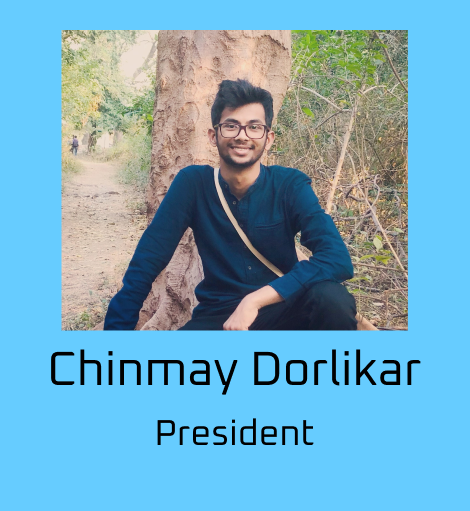
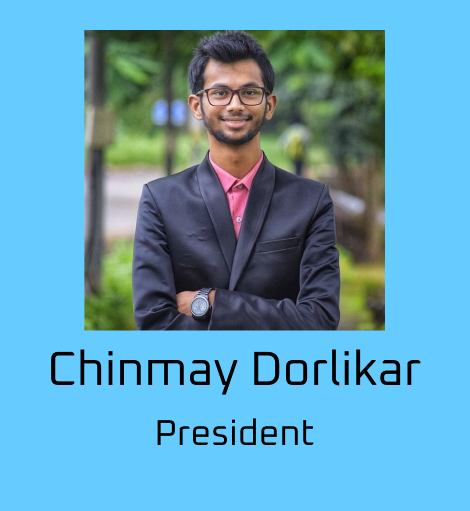
Photos of members updated and added

diff --git a/committee.html b/committee.html
@@ -95,8 +95,13 @@
             <td height="450px" width="333px" align="center" ><img height="300px" src="./ImagesCom/15.png"></td>
         </tr>
         <tr>
-            <td height="450px" width="333px" align="center" ></td>
             <td height="450px" width="333px" align="center" ><img height="300px" src="./ImagesCom/16.png"></td>
+            <td height="450px" width="333px" align="center" ><img height="300px" src="./ImagesCom/17.png"></td>
+            <td height="450px" width="333px" align="center" ><img height="300px" src="./ImagesCom/18.png"></td>
+        </tr>
+        <tr>
+            <td height="450px" width="333px" align="center" ></td>
+            <td height="450px" width="333px" align="center" ><img height="300px" src="./ImagesCom/19.png"></td>
             <td height="450px" width="333px" align="center" ><</td>
         </tr>
     </table>
